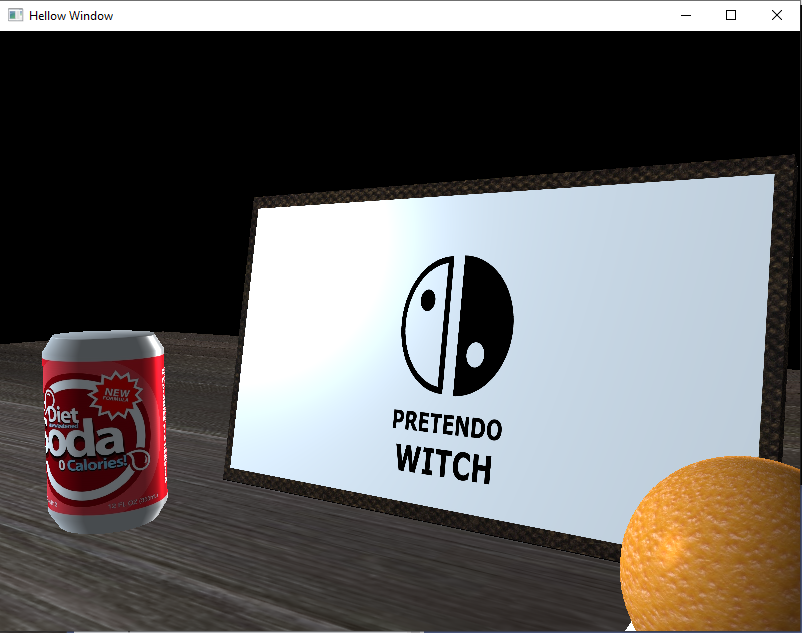
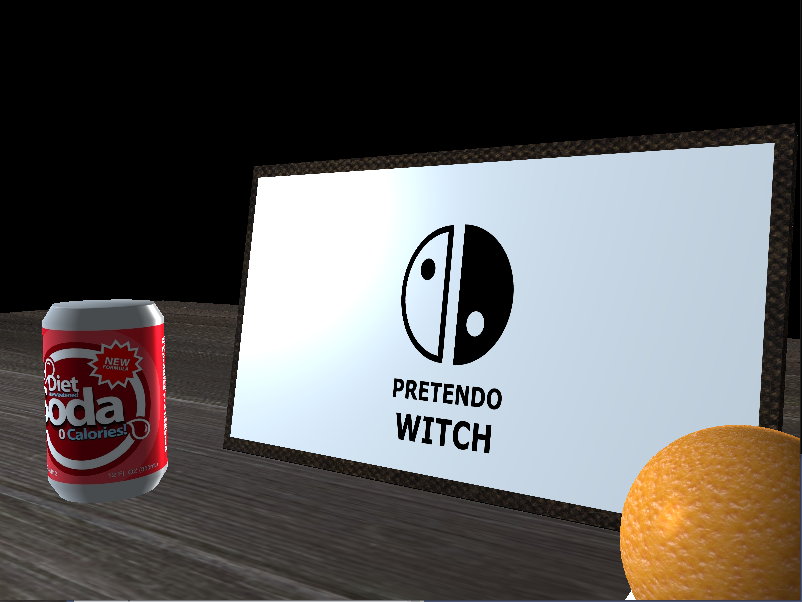
cropped demo screenshots and changed README

diff --git a/README.md b/README.md
@@ -20,8 +20,11 @@
 
 ## Screenshots
 
-![3D Scene Demo 1](img/3D\ Scene\ Demo\ 1.png)
+### Basic Scene
+![3D Scene Demo 1](img/3D%20Scene%20Demo%201.png)
 
-![3D Scene Demo 2](img/3D\ Scene\ Demo\ 2.png)
+### Wireframe Mode
+![3D Scene Demo 2](img/3D%20Scene%20Demo%202.png)
 
-![3D Scene Demo 3](img/3D\ Scene\ Demo\ 3.png)
+### Red Point Light
+![3D Scene Demo 3](img/3D%20Scene%20Demo%203.png)
